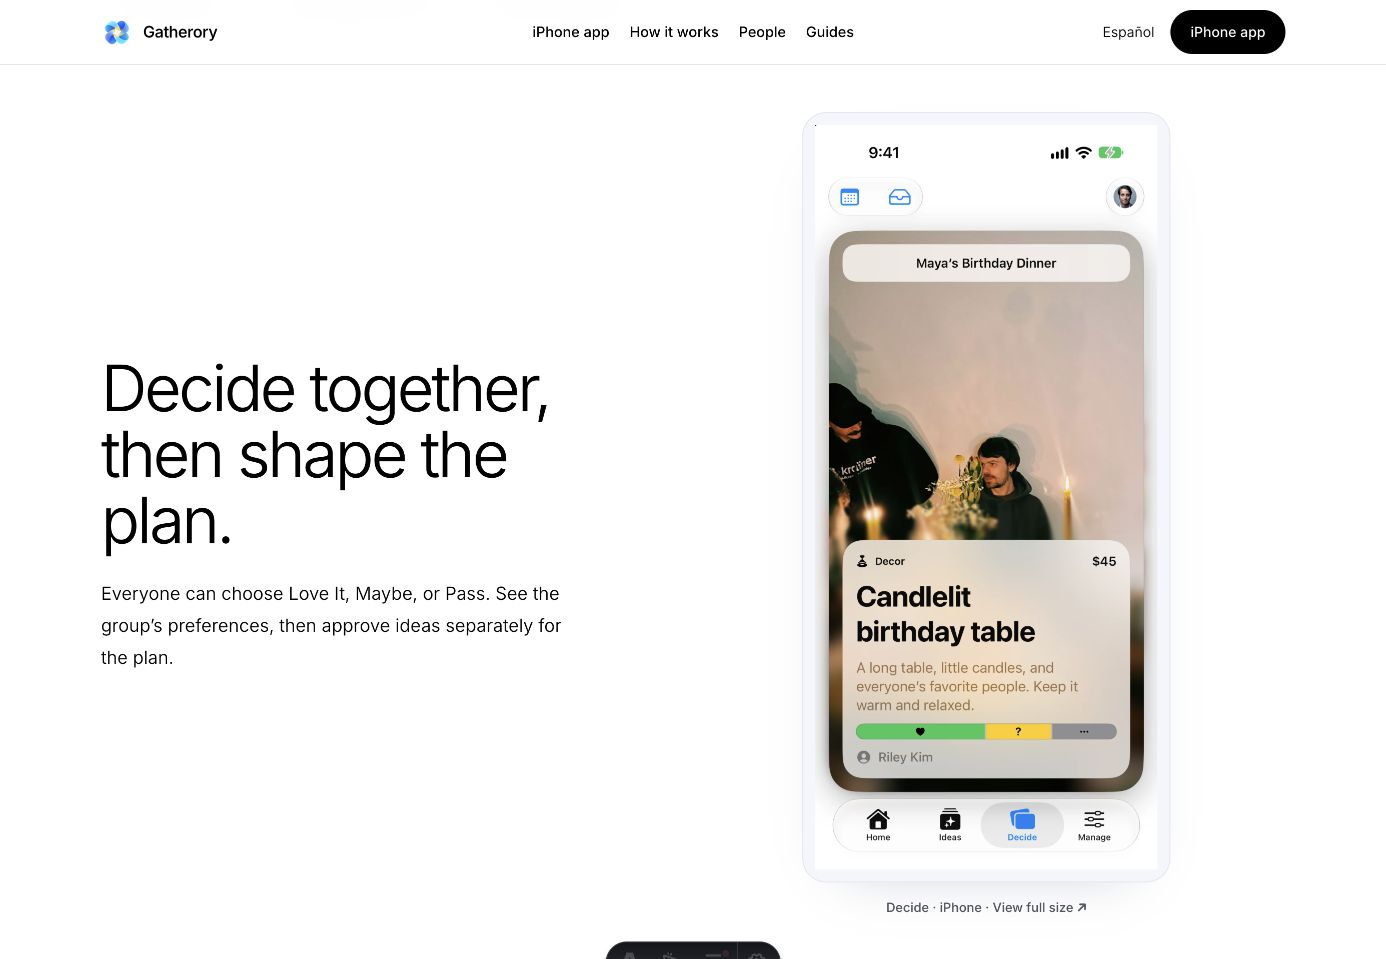
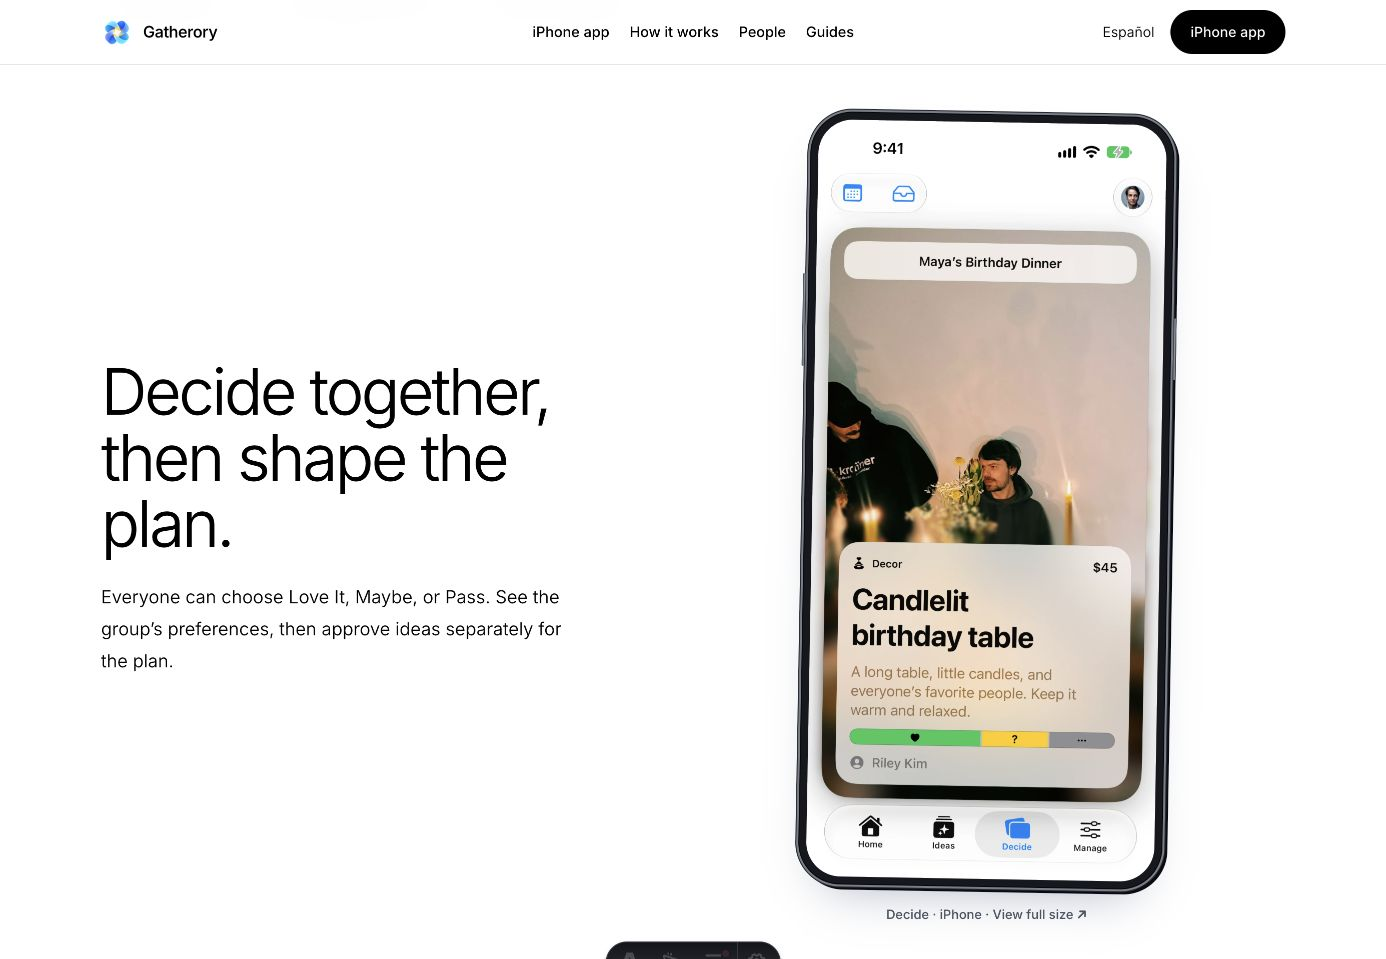
Frame product previews as iPhone and Duo devices

diff --git a/src/lib/components/landing/product-walkthrough.svelte b/src/lib/components/landing/product-walkthrough.svelte
@@ -52,9 +52,13 @@
 	.feature-row:last-child { padding-bottom: 0; border-bottom: 0; }
 	.feature-copy { min-width: 0; }
 	.feature-visual { display: grid; justify-items: center; gap: 1rem; min-width: 0; margin: 0; }
-	.screenshot-stage { display: grid; width: min(100%, 23rem); place-items: center; padding: .75rem; border: 1px solid #e2e7f0; border-radius: 1.5rem; background: #f4f6fc; box-shadow: 0 24px 60px -42px #162b5450; }
-	.feature-duo .screenshot-stage { width: min(100%, 32rem); }
-	.screenshot-stage img { display: block; width: 100%; height: auto; }
+	.screenshot-stage { position: relative; display: block; width: min(100%, 23rem); padding: .5rem; border: 2px solid #777d87; border-radius: 2.75rem; background: #16181d; box-shadow: inset 0 0 0 1px #06070a, 0 0 0 1px #252830, 3px 3px 0 #090b10, 0 28px 50px -28px #162b5460; transform: rotate(1deg); }
+	.screenshot-stage::before, .screenshot-stage::after { content: ""; position: absolute; z-index: -1; width: 3px; border-radius: 2px; background: linear-gradient(90deg, #272b33, #979da7, #272b33); }
+	.screenshot-stage::before { top: 21%; left: -5px; height: 12%; }
+	.screenshot-stage::after { top: 26%; right: -5px; height: 8%; }
+	.feature-duo .screenshot-stage { width: min(100%, 32rem); border-radius: 2rem; transform: rotate(-.6deg); }
+	.screenshot-stage img { display: block; width: 100%; height: auto; border-radius: 2.15rem; background: #fff; }
+	.feature-duo .screenshot-stage img { border-radius: 1.4rem; }
 	.screenshot-stage:focus-visible { outline: 3px solid var(--brand-blue); outline-offset: 6px; }
 	.feature-visual figcaption { color: #4f5663; font-size: .8rem; font-weight: 520; line-height: 1.4; }
 	.feature-reversed { grid-template-columns: minmax(0, 1.1fr) minmax(0, .9fr); }
@@ -64,6 +68,6 @@
 		.feature-row, .feature-reversed { grid-template-columns: minmax(0, 1fr); gap: 2rem; padding-block: 3rem; }
 		.feature-row:first-child { padding-top: 1rem; }
 		.feature-reversed .feature-copy, .feature-reversed .feature-visual { order: initial; }
-		.screenshot-stage, .feature-duo .screenshot-stage { width: min(100%, 24rem); padding: .5rem; border-radius: 1rem; }
+		.screenshot-stage, .feature-duo .screenshot-stage { width: min(100%, 24rem); transform: none; }
 	}
 </style>

diff --git a/docs/launch-prototype.md b/docs/launch-prototype.md
@@ -45,6 +45,9 @@ an assigned to-do, and an Updates section whose body is partly covered by the
 native floating event picker. The budget card has more vertical room to keep
 the remaining amount clear of the chart. Both walkthrough images preserve their full content
 and can open at full size; compact mobile layouts put the copy before the image.
+The walkthrough previews use dark phone outlines with metal rims, side buttons,
+and subtle desktop tilt. Mobile previews stay upright, and the frame treatment
+does not alter the native image files or their aspect ratios.
 The iPhone page retains its Home hero and the “Drinks & catch-ups” invitation
 as the Events preview, with RSVP choices in one horizontal row. Shared planning
 remains the core message, with photo personalization as a supporting benefit.
